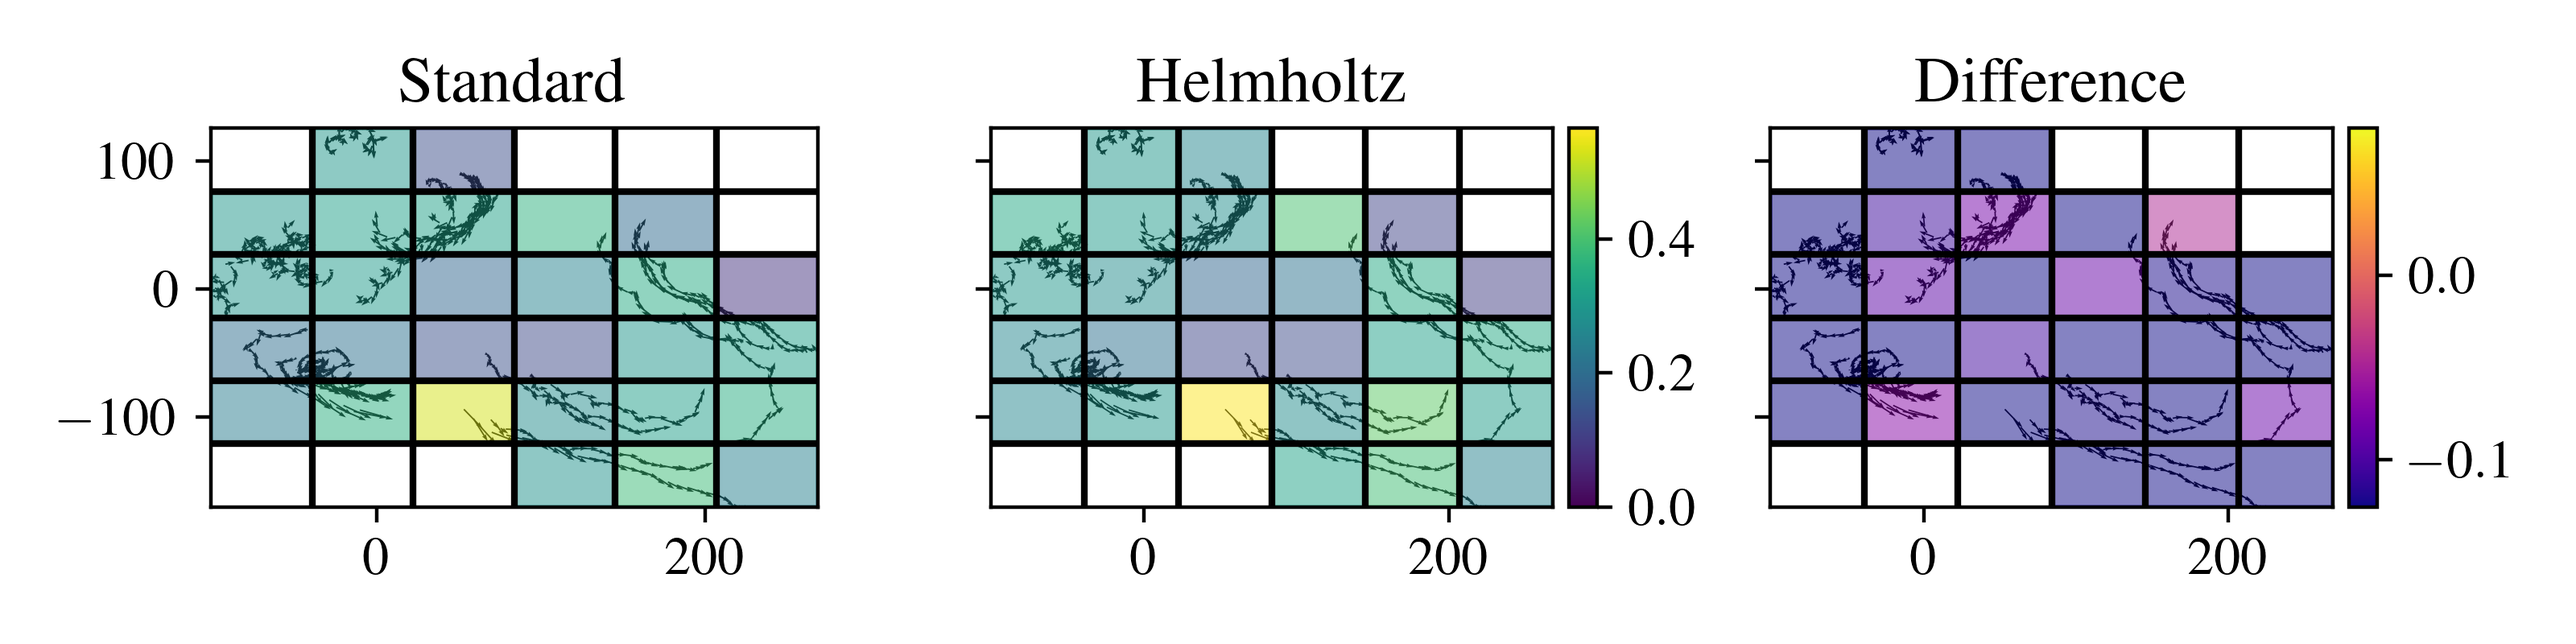
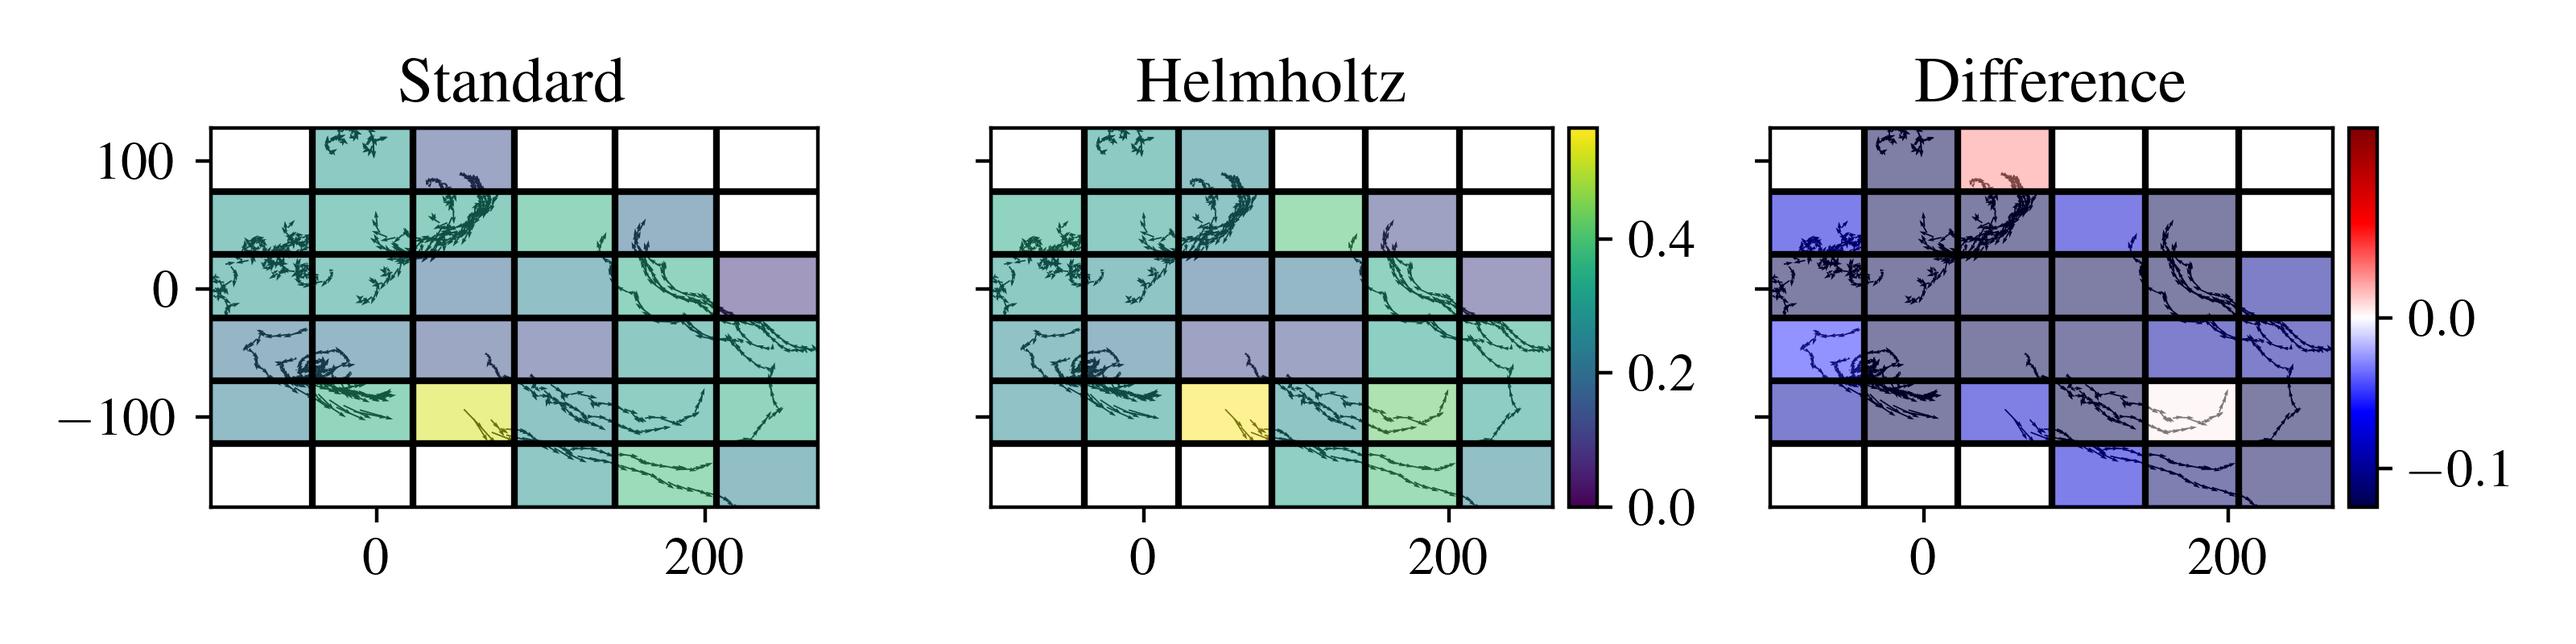
center colorbar

Changed region(s): [[0.6875, 0.1875, 0.9688, 0.8125]]

diff --git a/experiments/plotting/lasersparse_cv.py b/experiments/plotting/lasersparse_cv.py
@@ -103,7 +103,7 @@ def plot_data_and_splits(dataset: Dict, all_results: List[Dict]):
         norm=norm,
     )
 
-    cmap=cm.get_cmap("plasma")
+    cmap=cm.get_cmap("seismic")
     axes[2].quiver(XY_train[:, 0], XY_train[:, 1], UV_train[:, 0], UV_train[:, 1])
     axes[2].vlines(min_long + offset_long, min_lat, max_lat, colors="k")
     axes[2].vlines(min_long + 2 * offset_long, min_lat, max_lat, colors="k")
@@ -126,7 +126,7 @@ def plot_data_and_splits(dataset: Dict, all_results: List[Dict]):
         split_number = int(split_name.split("_")[-1])
         standard_rmse = result["metrics"]["rmse"]
         helmholtz_rmse = all_results[1][split_name]["metrics"]["rmse"]
-        diff_rmse = standard_rmse - helmholtz_rmse
+        diff_rmse =  helmholtz_rmse - standard_rmse
         left_bound = min_long + (split_number % split_long) * offset_long
         right_bound = left_bound + offset_long
         upper_bound = max_lat - (split_number // split_lat) * offset_lat
@@ -140,7 +140,7 @@ def plot_data_and_splits(dataset: Dict, all_results: List[Dict]):
             color=cmap(diff_rmse / (max_diff- min_diff)),
             alpha=0.5,
         )
-    norm = mpl.colors.Normalize(vmin=min_diff, vmax=max_diff)
+    norm = mpl.colors.TwoSlopeNorm(vmin=min_diff, vcenter=.0, vmax=max_diff)
     divider = make_axes_locatable(axes[2])
     cax = divider.append_axes("right", size="5%", pad=0.05)
     cb1 = mpl.colorbar.ColorbarBase(

diff --git a/experiments/plotting/gladfull_cv.py b/experiments/plotting/gladfull_cv.py
@@ -106,7 +106,7 @@ def plot_data_and_splits(dataset: Dict, all_results: List[Dict]):
         norm=norm,
     )
 
-    cmap=cm.get_cmap("plasma")
+    cmap=cm.get_cmap("seismic")
     axes[2].quiver(XY_train[:, 0], XY_train[:, 1], UV_train[:, 0], UV_train[:, 1])
     axes[2].vlines(min_long + offset_long, min_lat, max_lat, colors="k")
     axes[2].vlines(min_long + 2 * offset_long, min_lat, max_lat, colors="k")
@@ -135,7 +135,7 @@ def plot_data_and_splits(dataset: Dict, all_results: List[Dict]):
         split_number = int(split_name.split("_")[-1])
         standard_rmse = result["metrics"]["rmse"]
         helmholtz_rmse = all_results[1][split_name]["metrics"]["rmse"]
-        diff_rmse = standard_rmse - helmholtz_rmse
+        diff_rmse = helmholtz_rmse - standard_rmse
         left_bound = min_long + (split_number % split_long) * offset_long
         right_bound = left_bound + offset_long
         upper_bound = max_lat - (split_number // split_lat) * offset_lat
@@ -150,7 +150,7 @@ def plot_data_and_splits(dataset: Dict, all_results: List[Dict]):
             alpha=0.5,
         )
         print(diff_rmse)
-    norm = mpl.colors.Normalize(vmin=min_diff, vmax=max_diff)
+    norm = mpl.colors.TwoSlopeNorm(vmin=min_diff, vcenter=.0, vmax=max_diff)
     divider = make_axes_locatable(axes[2])
     cax = divider.append_axes("right", size="5%", pad=0.05)
     cb1 = mpl.colorbar.ColorbarBase(

diff --git a/experiments/plotting/gladsparse_cv.py b/experiments/plotting/gladsparse_cv.py
@@ -100,7 +100,7 @@ def plot_data_and_splits(dataset: Dict, all_results: List[Dict]):
         norm=norm,
     )
 
-    cmap=cm.get_cmap("plasma")
+    cmap=cm.get_cmap("seismic")
     axes[2].quiver(XY_train[:, 0], XY_train[:, 1], UV_train[:, 0], UV_train[:, 1])
     axes[2].vlines(min_long + offset_long, min_lat, max_lat, colors="k")
     axes[2].vlines(min_long + 2 * offset_long, min_lat, max_lat, colors="k")
@@ -123,7 +123,7 @@ def plot_data_and_splits(dataset: Dict, all_results: List[Dict]):
         split_number = int(split_name.split("_")[-1])
         standard_rmse = result["metrics"]["rmse"]
         helmholtz_rmse = all_results[1][split_name]["metrics"]["rmse"]
-        diff_rmse = standard_rmse - helmholtz_rmse
+        diff_rmse = helmholtz_rmse - standard_rmse
         left_bound = min_long + (split_number % split_long) * offset_long
         right_bound = left_bound + offset_long
         upper_bound = max_lat - (split_number // split_lat) * offset_lat
@@ -138,7 +138,7 @@ def plot_data_and_splits(dataset: Dict, all_results: List[Dict]):
             alpha=0.5,
         )
         print(diff_rmse)
-    norm = mpl.colors.Normalize(vmin=min_diff, vmax=max_diff)
+    norm = mpl.colors.TwoSlopeNorm(vmin=min_diff, vcenter=.0, vmax=max_diff)
     divider = make_axes_locatable(axes[2])
     cax = divider.append_axes("right", size="5%", pad=0.05)
     cb1 = mpl.colorbar.ColorbarBase(

diff --git a/experiments/plotting/laserfull_cv.py b/experiments/plotting/laserfull_cv.py
@@ -102,7 +102,7 @@ def plot_data_and_splits(dataset: Dict, all_results: List[Dict]):
         norm=norm,
     )
 
-    cmap=cm.get_cmap("plasma")
+    cmap=cm.get_cmap("seismic")
     axes[2].quiver(XY_train[:, 0], XY_train[:, 1], UV_train[:, 0], UV_train[:, 1])
     axes[2].vlines(min_long + offset_long, min_lat, max_lat, colors="k")
     axes[2].vlines(min_long + 2 * offset_long, min_lat, max_lat, colors="k")
@@ -127,7 +127,7 @@ def plot_data_and_splits(dataset: Dict, all_results: List[Dict]):
         split_number = int(split_name.split("_")[-1])
         standard_rmse = result["metrics"]["rmse"]
         helmholtz_rmse = all_results[1][split_name]["metrics"]["rmse"]
-        diff_rmse = standard_rmse - helmholtz_rmse
+        diff_rmse = helmholtz_rmse - standard_rmse
         left_bound = min_long + (split_number % split_long) * offset_long
         right_bound = left_bound + offset_long
         upper_bound = max_lat - (split_number // split_lat) * offset_lat
@@ -142,7 +142,7 @@ def plot_data_and_splits(dataset: Dict, all_results: List[Dict]):
             alpha=0.5,
         )
         print(diff_rmse)
-    norm = mpl.colors.Normalize(vmin=min_diff, vmax=max_diff)
+    norm = mpl.colors.TwoSlopeNorm(vmin=min_diff, vcenter=.0, vmax=max_diff)
     divider = make_axes_locatable(axes[2])
     cax = divider.append_axes("right", size="5%", pad=0.05)
     cb1 = mpl.colorbar.ColorbarBase(
